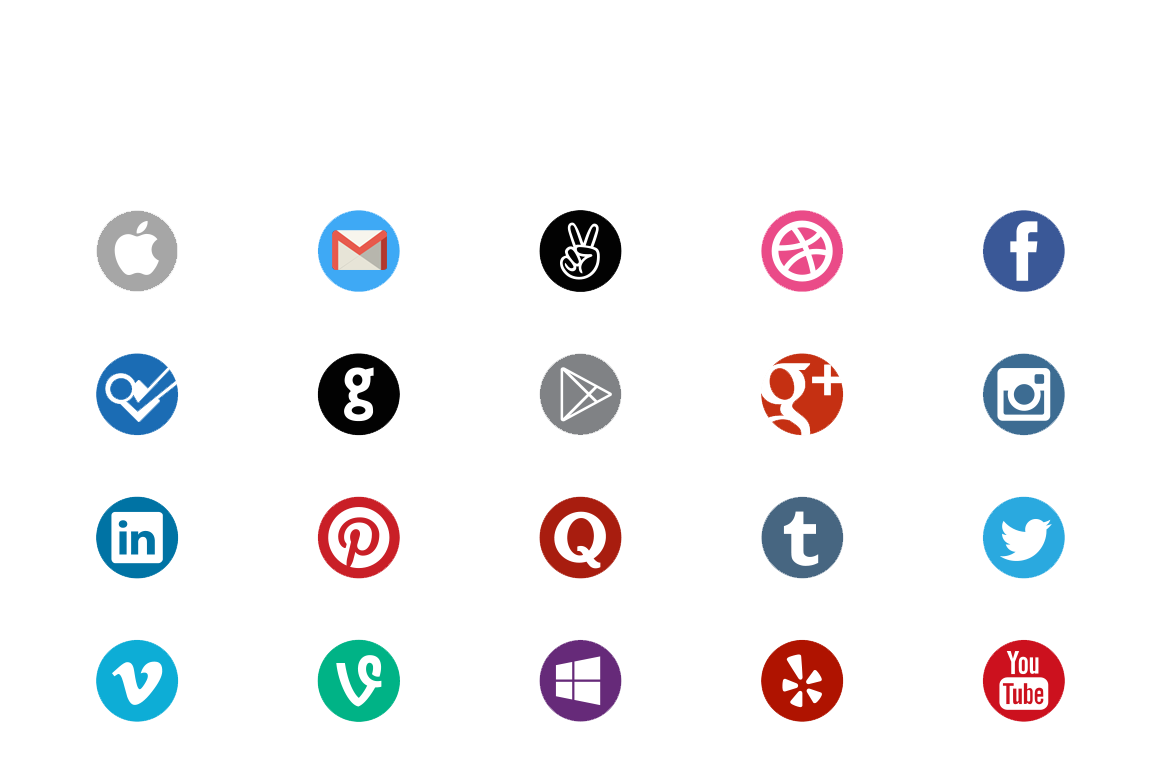
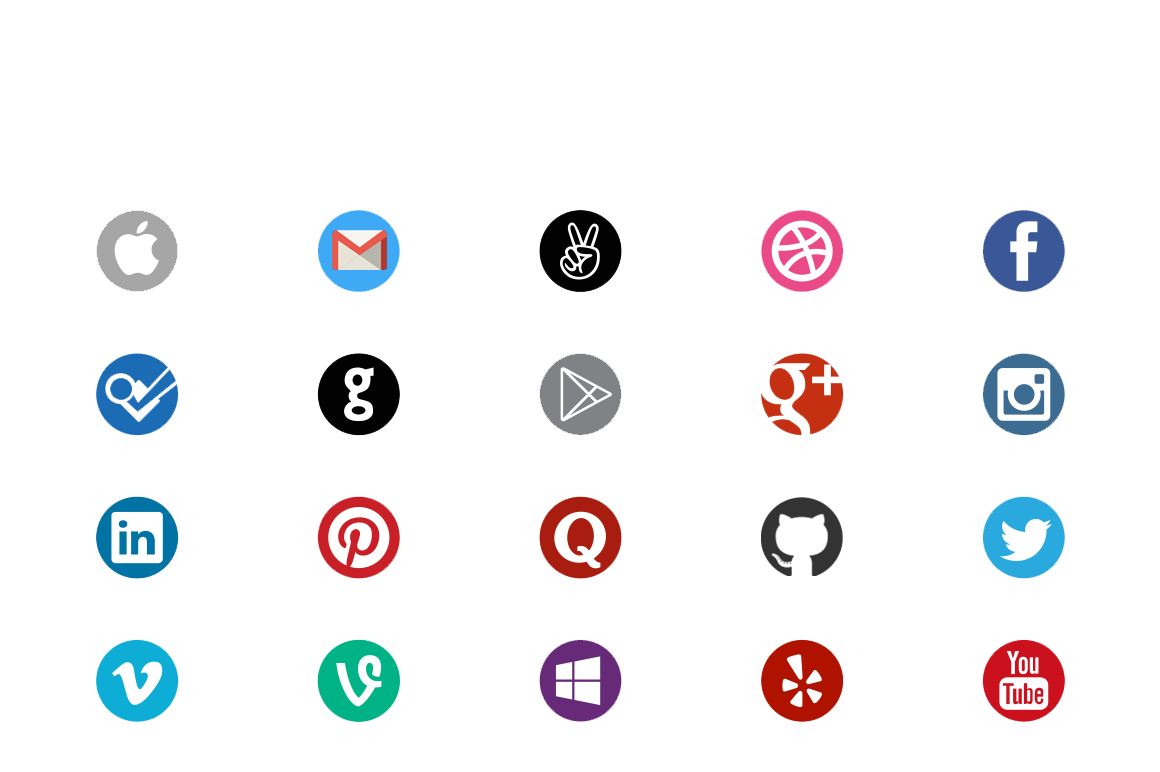
Added GitHub

Changed region(s): [[0.6517, 0.6218, 0.7448, 0.7461]]

diff --git a/index.html b/index.html
@@ -474,6 +474,7 @@
         <a target="_blank" id="twitter" href="https://twitter.com/EmilyLShepherd"><span></span>Twitter</a>
         <a target="_blank" id="linkedIn" href="https://uk.linkedin.com/pub/emily-shepherd/49/21a/57a"><span></span>LinkedIn</a>
         <a target="_blank" id="instagram" href="https://instagram.com/emilylshepherd/"><span></span>Instagram</a>
+        <a target="_blank" id="github" href="https://github.com/EmilyShepherd"><span></span>Git Hub</a>
         <a target="_blank" id="email" href="mailto:emily@emilyshepherd.me"><span></span>Email</a>
       </div>
             

diff --git a/css/style.css b/css/style.css
@@ -390,6 +390,11 @@ body > footer
     background-position: -97px -498px;
 }
 
+#github span
+{
+    background-position: -762px -498px;
+}
+
 footer small a, footer small a:visited
 {
     color: white;
